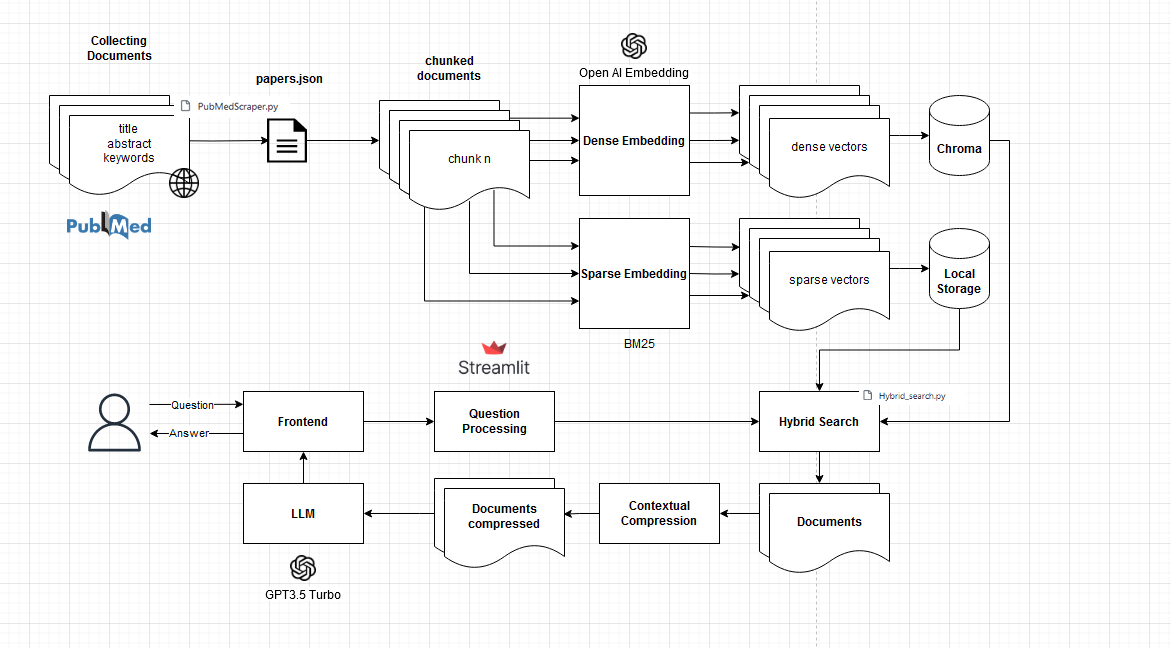
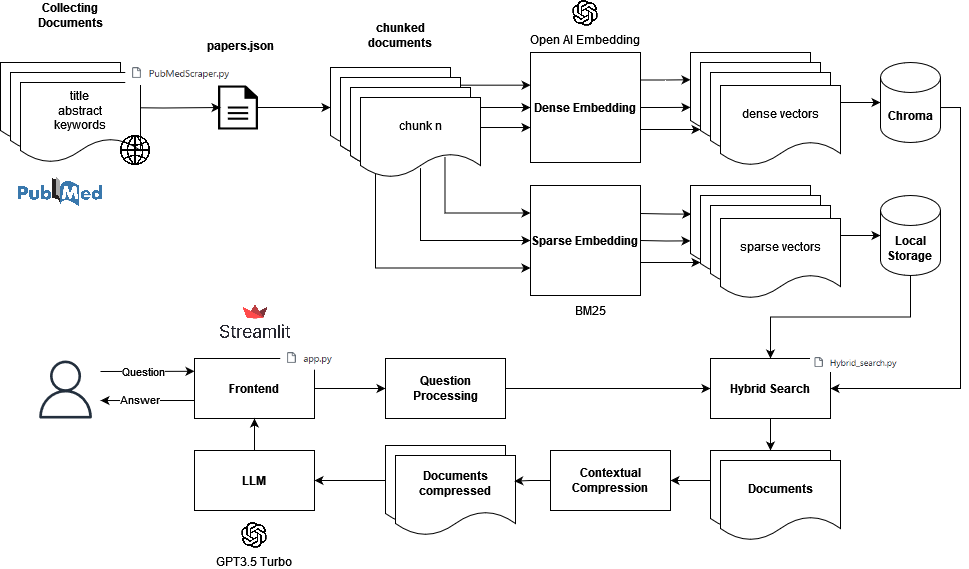
Update Documentation

diff --git a/DOCUMENTATION.md b/DOCUMENTATION.md
@@ -2,22 +2,33 @@
 
 NLP Project Group 20
 
-| Github-UserName     | StudentName | Matrikelnummer     |
-|----------|-----|----------------|
-|   Ibinmbiju   | Ibin Mathew Biju  | 3770662 |
-|   AnuR1234  | Anu Reddy | 3768482  |
-|   nokitoino   | Burhan Akin Yilmaz | 4114082    |
-|   nr59684   | Nilesh Parshotam Rijhwani | 3771253    |
+| Github-UserName     | StudentName | Matrikelnummer     | Course | Email-address |
+|----------|-----|----------------|-----|----------------|
+|   Ibinmbiju   | Ibin Mathew Biju  | 3770662 | Msc. Data and Computer Science |  mathew.biju@stud.uni-heidelberg.de |
+|   AnuR1234  | Anu Reddy | 3768482  | Msc. Data and Computer Science |  anu.reddy@stud.uni-heidelberg.de |
+|   nokitoino   | Burhan Akin Yilmaz | 4114082 | Msc. Data and Computer Science |  burhan.yilmaz@stud.uni-heidelberg.de |
+|   nr59684   | Nilesh Parshotam Rijhwani | 3771253 | Msc. Data and Computer Science |  nilesh.rijhwani@stud.uni-heidelberg.de |
+
+## Project Advisory:
+prof. Michael Gertz, Jayson Salazar Rodríguez
+
+## Anti - Plagiarism Confirmation:
+We hereby certify that we have written the work ourselves and that we have not used any sources or aids other than those specified and that we have marked what has been taken over from other people's works, either verbatim or in terms of content, as foreign
+
+04.03.2024, Heidelberg
+Date & Place
+
 
 ## Table of Contents
 1. [Introduction](#1-introduction)
 2. [Members Contribution](#2-members-contribution)
-3. [RAG Pipeline](#3-rag-pipeline)
-4. [Experimental Setup](#4-experimental-setup)
-5. [Evaluation](#5-evaluation)
-6. [Medical QA-system Demo](#6-medical-qa-system-demo)
-7. [Resources](#7-resources)
-8. [License](#8-license)
+3. [Related Work](#3-related-work)
+4. [RAG Pipeline](#4-rag-pipeline)
+5. [Experimental Setup](#5-experimental-setup)
+6. [Evaluation](#6-evaluation)
+7. [Medical QA-system Demo](#7-medical-qa-system-demo)
+8. [References ](#8-references)
+9. [License](#9-license)
 
 ## 1. Introduction
 
@@ -45,12 +56,15 @@ In summary, our project represents a concerted effort to harness the power of na
    - Working on implementation of Hybrid Search
    - Looking to different evaluating metrics 
 2. Akin Yilmaz:
-   - Developed the PudMedScraper.py using Entrez. Bypassed the Ratelimit of 9999 files using date intervalls. Created the JSON format in cooperation with the others.
-   - Testing a parallel Pipeline using Haystack for the entire workflow. Implemented simple pipeline using the DocumentStore using Elasticsearch and experimented with the TF-IDF (sparse) Retriever, and T5 as LLM, aborted the continuation due to the group agreement to stick to LangChain.
-   - Implemented and commented embedding_evaluation.py
-   - Only Commented and uploaded Embedding-OpenAI-Chroma.ipynb, which was implemented by Anu Reddy.
-   - Implemented LLM-GPT3.5-Turbo.ipynb, which is the continuation of our base Notebook Embedding-OpenAI-Chroma.ipynb. It uses GPT3.5 Turbo as LLM.
-   - Implemented Evaluation-Contextual-Compression.ipynb based on the ideas used in the lectures last assignment. Uses LLMExtractor, and different metrics to evaluate the performance of our entire pipeline with the help of Hugging Face pubmed_qa dataset.
+  - Developed the PudMedScraper.py using Entrez. Bypassed the Ratelimit of 9999 files using date intervalls. Created the JSON format in cooperation with the others.
+  - Testing a parallel Pipeline using Haystack for the entire workflow. Implemented simple pipeline using the DocumentStore using Elasticsearch and experimented with the TF-IDF (sparse) Retriever, and T5 as LLM, aborted the continuation due to the group agreement to stick to LangChain.
+  - Implemented and commented embedding_evaluation.py
+    Only Commented and uploaded Embedding-OpenAI-Chroma.ipynb, which was implemented by Anu Reddy.
+    Implemented LLM-GPT3.5-Turbo.ipynb, which is the continuation of our base Notebook Embedding-OpenAI-Chroma.ipynb. It uses GPT3.5 Turbo as LLM.
+  - Implemented Evaluation-Contextual-Compression.ipynb based on the ideas used in the lectures last assignment. Uses LLMExtractor, and different metrics to evaluate the performance of our entire pipeline with the help of Hugging Face pubmed_qa dataset.
+  - Implemented Hybrid-Search-Contextual-Compression.ipynb with the hybrid search from Anu.
+  - Implemented qa_generator.py as an alternative to our PubMed QA dataset to automatically generate questions over our documents from papers.json. Can also be used for follow up questions (& embedding evaluation & LLM evaluation.)
+  - Contributed to report with Nilesh and Anu, redesigned architecture diagram, contributed to README.md
 3. Nilesh Rijhwani:
    - Working on the automation of webscrapping where I am using following structure to maintain timely webscarpping (Droped due to time constraint):
       - Using Python scheduler library - APScheduler
@@ -71,8 +85,30 @@ In summary, our project represents a concerted effort to harness the power of na
    - Developed and Refactored and fine tuned the code for front end
    - Integrated and deployed the model and Designed the UI.
 
-## 3. RAG Pipeline
-### 3.1 Pipeline
+You can find the Biweekly meetings file maintained in this [link](https://docs.google.com/document/d/1QVJU6Ydzll8Ti5E3zLaVGE1o2qV8WCrpznPQH4D4ZOw/edit)
+
+## 3. Related Work
+
+Our project builds upon significant advancements in question-answering systems, information retrieval techniques, and the application of large language models (LLMs) within the medical domain.
+
+Information Retrieval and Ranking
+
+The foundation of our retrieval system draws from the well-established BM25 algorithm, a probabilistic relevance framework for keyword-based search [1]. To leverage semantic understanding,  we incorporate dense vector embeddings. Recent studies have demonstrated the effectiveness of training biomedical word embeddings for enhanced performance in medical NLP tasks [4].
+
+Hybrid Search Strategies
+
+Recognizing the strengths of both keyword-based and semantic retrieval, our approach adopts a hybrid search model.  This strategy aligns with research highlighting the potential of combining sparse and dense retrievers to improve overall system results.
+
+Language Models and Contextualization
+
+The use of Retrieval-Augmented Generation (RAG) techniques enables our system to tap into the power of LLMs for answer generation while maintaining source transparency. Leveraging tools like the LangChain Extractor [2] is key for effective contextual compression within our QA pipeline. Research on the potential and capabilities of ChatGPT and similar Open-AI models underscores their value in NLP applications [3].
+
+Medical Question-Answering Systems
+
+While our system focuses on the PubMed corpus, there's extensive research on domain-specific QA systems in the medical field.  Our work aims to contribute to this expanding area by exploring the integration of hybrid search and RAG techniques in this specific context.
+
+## 4. RAG Pipeline
+### 4.1 Pipeline
 
 ![RAG Pipeline](./images/RAG_Pipeline.png)
 
@@ -81,7 +117,7 @@ Fig. 1. RAG Pipeline
 
 The pipeline consists of four components. In the following we will describe every components functionality and interactions in detail. In [section 4](#4-experimental-setup) we will describe the specific setting we use, i.e. used framework and libraries.
 
-### 3.2 Data Collection
+### 4.2 Data Collection
 
 The first component of our pipeline collects the medical documents. We want the QA system to derive the answers from the relevant abstracts of the medical documents. To be able filter out the relevant
 documents we will only collect information about the title, abstract and keywords of each document.
@@ -89,7 +125,7 @@ We do not include information about the author, the document publication ids, re
 these entries do not contain any valuable information to genearate an answer for a medical question.
 Being restricted to these entries also reduces the size of our document store, which we will discuss now.
 
-### 3.3 Dense Retriever and Document Store
+### 4.3 Dense Retriever and Document Store
 
 The realm of Retrieval-Augmented Generation (RAG) involves a process: it transforms text into high-
 dimensional vectors–embeddings–that capture semantic and contextual nuances. These dynamic entities,
@@ -110,7 +146,7 @@ our pipeline, we do not restrict ourselves to dense embeddings only, but rather 
 and dense embeddings as seen in the diagram XY. The justification for this can be found in subsection
 XY 6.
 
-### 3.4 Sparse Retriever
+### 4.4 Sparse Retriever
 
 A search based on keywords, also known as sparse vector search, relies on creating sparse ”embeddings”.
 Most values in the vector are 0, except for a few non-zero values. Algorithms like BM25 are used to
@@ -121,11 +157,10 @@ query is converted into a sparse embedding using the same algorithm.Cosine simil
 are used to compare the query embedding with each document’s embedding. Documents are ranked
 based on their similarity scores. The most relevant documents are displayed first in the search results.
 
-### 3.5 Hybrid Search
+### 4.5 Hybrid Search
 
 As mentioned we do not restrict ourselves to a dense retriever, but rather to a combination of dense
-and sparse retrievers. This concept is called hybrid search. The justification to use hybrid search can
-be found in section XY.
+and sparse retrievers. This concept is called hybrid search.
 
 The hybrid search combines keyword-based and vector search strategies to leverage their respective
 strengths. By incorporating vector search independently, it positively impacts the retrieval process. Hy-
@@ -140,7 +175,7 @@ In the diagram we notice two databases, one contains the sparse embeddings, the 
 embeddings, both of which are used to retrieve relevant documents for the users question via hybrid
 search.
 
-### 3.6 Contextual Compression
+### 4.6 Contextual Compression
 
 Now after retrieving the relevant documents for the users medical question, we will do contextual com-
 pression. As the name suggests, we Contextual compression, a fundamental aspect of natural language
@@ -151,13 +186,13 @@ This component of our RAG will summarize the retrieved context to its core state
 as context for the LLM. This reduces the amount of tokens in the input for the LLM while maintaining
 enough context information for the LLM to generate an answer for the question.
 
-### 3.7 Frontend
+### 4.7 Frontend
 
 To ensure ease of use, our pipeline incorporates a user-friendly frontend built with the Python-based Streamlit framework. This provides a simple web interface for users to submit their medical questions and receive the system's responses. For seamless accessibility and deployment, the frontend is hosted on Hugging Face Spaces, a well-known platform within the AI/ML community. Our focus on Streamlit and Hugging Face Spaces aims to provide a smooth and intuitive user experience when interacting with our medical question-answering system.
 
-## 4. Experimental Setup
+## 5. Experimental Setup
 
-### 4.1 Choosing the QA-Framework
+### 5.1 Choosing the QA-Framework
 There are three well-known frameworks that help to build the entire QA pipeline. We choose LangChain,
 since it is well documented, has a good performance, has efficient methods for indexing and retrieval,
 and its dynamics with respect to any component of the pipeline.
@@ -170,7 +205,7 @@ and its dynamics with respect to any component of the pipeline.
 
 Table 1: Comparison of LlamaIndex, LangChain, and Haystack
 
-### 4.2 Data Collection with Entrez
+### 5.2 Data Collection with Entrez
 
 The first necessary step to build our QA system is to collect the abstracts of our medical documents from
 Pub Med. The abstracts contain valuable information for the entire document, and often are sufficient
@@ -212,7 +247,7 @@ a json file papers.json with the following format:
 ```
 In the Github Repository one can find the implementation in PubMedScraper.py.
 
-### 4.3 Hybrid Search with OpenAI Embedding
+### 5.3 Hybrid Search with OpenAI Embedding
 
 To implement the aforementioned hybrid search, we have considered the following embedding models
 for the dense retriever part:
@@ -221,19 +256,19 @@ for the dense retriever part:
 - pubmedbert (HuggingFace)[pubmedbert]
 
 We choose OpenAI Embedding as our embedding model, based on the evaluation tests performed which
-have been discussed in detail in the section XY. To store the dense embeddings we use Chroma as our
+have been discussed in detail in the section [6](#6-evaluation). To store the dense embeddings we use Chroma as our
 vector database.
 
 For the sparse retriever part, we choose BM25, which is an improved version of the TF-IDF (Term-
 Frequency-Inverse-Document-Frequency). We refer to the Evaluation section that justifies this specific
 setting.
 
-### 4.4 Contextual Compression with LLMExtractor
+### 5.4 Contextual Compression with LLMExtractor
 
 LangChain provides the LLMChainExtractor to easily implement contextual compression in our pipeline,
-see In section XY we compare the RAG without contextual compression against the RAG with contextual compression.
+see In section [6](#6-evaluation) we compare the RAG without contextual compression against the RAG with contextual compression.
 
-### 4.5 Frontend with Streamlit
+### 5.5 Frontend with Streamlit
 
 - Rapid Prototyping & Ease of Use: Streamlit enables swift creation of a functional interface for experimentation, allowing us to focus on the core RAG functionality.
 - Dynamic Updates: Streamlit's reactive programming model updates the interface in response to queries, providing immediate feedback on the system's behavior under different conditions.
@@ -244,8 +279,8 @@ see In section XY we compare the RAG without contextual compression against the 
 - Output Display: The interface presents the generated answer, relevant context, and related documents.
 - Follow-up Generation: The system suggests follow-up questions to promote further exploration and test conversational aspects of the setup.
 
-## 5. Evaluation
-### 5.1 Evaluating Embeddings
+## 6. Evaluation
+### 6.1 Evaluating Embeddings
 
 We have implemented embedding evaluation.py, which traverses a random subset of the collected
 document abstracts and prompts ChatGPT to generate a couple of questions specific to the abstracts
@@ -297,7 +332,7 @@ Table 2: The Evaluation Metrics of Embeddings Models
 Based on both techniques, we conclude that OpenAI is performing much better in terms of retrieving
 the correct documents as expected. Hence we used OpenAI as our embedding model.
 
-### 5.2 Evaluating LLMs
+### 6.2 Evaluating LLMs
 To evaluate the LLMs we make uses of the Hugging Face Pub Med Dataset qiaojin/pubmed qa. The
 relevant columns of this dataset is question, context and long answer. The idea is to use metrics that
 express the similarity between the RAG generated answer and the desired target answer from the Pub
@@ -326,7 +361,7 @@ metrics: BLEU, ROUGE, and BERTScore.
 
 Table 3: The Evaluation Metrics of LLMs
 
-### 5.3 Evaluation of Contextual Compression
+### 6.3 Evaluation of Contextual Compression
 Building upon the previous section, we maintain GPT-3.5 Turbo as the LLM in our architecture. Our
 next objective is to assess whether contextual compression enhances the performance of our system.
 Contextual compression is designed to selectively extract pertinent information from documents, thereby
@@ -349,7 +384,7 @@ the similarity between the answers of each RAG against the target answer from th
 
 Table 4: The Evaluation Metrics of LLM before and after context compression
 
-### 5.4 Risk Analysis
+### 6.4 Risk Analysis
 
 Regarding the evaluations done so far, we decide to go with the OpenAI Embedding and the GPT3.5
 Turbo as LLM. Not only do these perform better than other embedding models and LLM models,
@@ -363,7 +398,7 @@ probability for a downfall of our service is mathematically expressed Pr[Local O
 Outage], which is obviously larger than Pr[Local Outage]. If the damage caused by this availability is
 high, than one should rethink about using models that can be downloaded, and therefore hosted locally.
 
-### 5.5 Conclusion
+### 6.5 Conclusion
 
 We are convinced to use LangChain as framework due to the detailed documentation, performance and
 dynamics. With respect to our evaluation, we have come to the conclusion that we will stick to OpenAI
@@ -371,7 +406,17 @@ Embedding and the GPT3.5 Turbo as LLM for our RAG, and we have seen that context
 improves the models accuracy while reducing the input size for the Online LLM model, and therefore
 reducing the service costs.
 
-## 6 Medical QA-system Demo
+### 6.6 Future Work
+
+Specialized Medical Vocabulary: Integrating a comprehensive vocabulary of medical terms has the potential to significantly enhance the system's understanding of nuanced medical queries. This could be achieved by incorporating established medical ontologies or knowledge bases into the system.
+
+Complex Question Handling:  Extend the system's capabilities to handle more complex question types, such as those involving hypothetical scenarios, comparisons, or requiring reasoning over multiple documents.
+
+Answer Validation and Explainability: Develop techniques for verifying answer accuracy, particularly regarding critical medical information.  Incorporate methods to explain the system's reasoning process, fostering trust between healthcare professionals and the QA system.
+
+User Interface Refinement: Continuously improve the frontend's design and functionality based on feedback from healthcare professionals, ensuring the system is intuitive and efficient to use within clinical or research settings.
+
+## 7 Medical QA-system Demo
 
 Finally, we show some illustrations of our final product developed by Akin Yilmaz, Anu Reddy, Ibin
 Biju, and Nilesh Rijhwani (AAIN).
@@ -388,7 +433,7 @@ The model is live on hugging face and can be found at link [Your PubMed Bot!](ht
 
 Before acessing the model, make sure you have joined the organization at the link [Join group here!](https://huggingface.co/organizations/inltp-group20/share/sTBJmwoxoUamGbTXfJnIeqAEtsyqAggWgg)
 
-## 7 Resources
+## 8 References
 
 [1]. Robertson, Stephen, et al. ‘The Probabilistic Relevance Framework: BM25 and Beyond’. Foundations and Trends® in Information Retrieval, vol. 3, no. 4, Now Publishers, Inc., 2009, pp. 333–389.
 
@@ -398,6 +443,6 @@ Before acessing the model, make sure you have joined the organization at the lin
 
 [4] Chiu, Billy, et al. ‘How to Train Good Word Embeddings for Biomedical NLP’. Proceedings of the 15th Workshop on Biomedical Natural Language Processing, 2016, pp. 166–174.
 
-## 8 License
+## 9 License
 
 This project is licensed under the [GNU General Public License (GPL) version 3](LICENSE.md) - see the [LICENSE.md](LICENSE.md) file for details.
